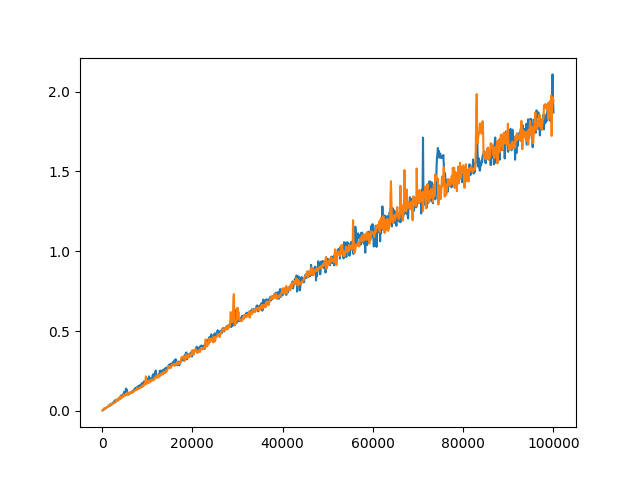
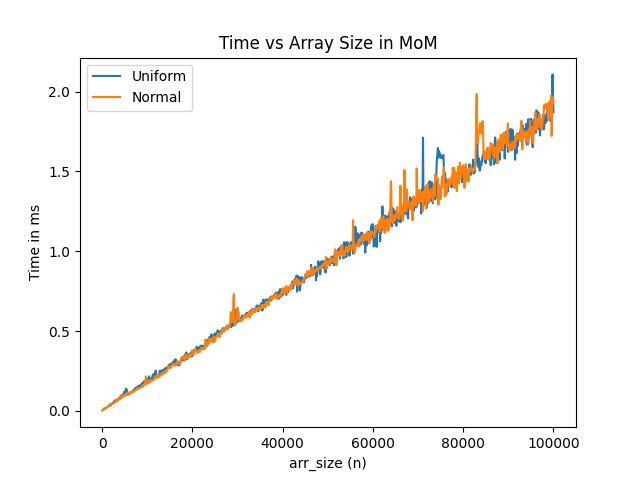
maybe question done? idk :(

diff --git a/Assignment 1/Question 9 MoM Size Analysis/plotter.py b/Assignment 1/Question 9 MoM Size Analysis/plotter.py
@@ -14,7 +14,12 @@ time_uniform = uniform_df['avg_time'].to_numpy()
 n_normal = normal_df['arr_size'].to_numpy()
 time_normal = normal_df['avg_time'].to_numpy()
 
-plt.plot(n_uniform,time_uniform, label = 'Uniform')
-plt.plot(n_normal,time_normal, label = 'Normal')
+plt.figure()
+plt.plot(n_uniform, time_uniform, label='Uniform')
+plt.plot(n_normal, time_normal,  label='Normal')
+plt.legend()
+plt.xlabel('arr_size (n)')
+plt.ylabel('Time in ms')
+plt.title('Time vs Array Size in MoM')
 
 plt.savefig('observation.png')
